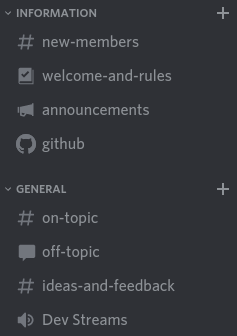
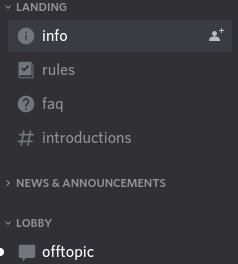
Add "info" and "faq"

diff --git a/src/index.js b/src/index.js
@@ -7,10 +7,14 @@ import * as settingsPage from "@goosemod/settings";
 let settings = {
   github: true,
   offTopic: true,
+  info: true,
+  faq: true,
 };
 
 let styleGithub;
 let styleOffTopic;
+let styleInfo;
+let styleFaq;
 
 function updateSetting(setting, value = settings[setting]) {
   try {
@@ -24,7 +28,7 @@ function updateSetting(setting, value = settings[setting]) {
 
         if (value) {
           styleGithub = document.createElement("style");
-          styleGithub.textContent = `[aria-label="github (text channel)"] > div > svg > path, [aria-label="github (announcement channel)"] > div > svg > path, [aria-label="unread, github (text channel)"] > div > svg > path, [aria-label="unread, github (announcement channel)"] > div > svg > path { d: path("M8 0C3.58 0 0 3.58 0 8C0 11.54 2.29 14.53 5.47 15.59C5.87 15.66 6.02 15.42 6.02 15.21C6.02 15.02 6.01 14.39 6.01 13.72C4 14.09 3.48 13.23 3.32 12.78C3.23 12.55 2.84 11.84 2.5 11.65C2.22 11.5 1.82 11.13 2.49 11.12C3.12 11.11 3.57 11.7 3.72 11.94C4.44 13.15 5.59 12.81 6.05 12.6C6.12 12.08 6.33 11.73 6.56 11.53C4.78 11.33 2.92 10.64 2.92 7.58C2.92 6.71 3.23 5.99 3.74 5.43C3.66 5.23 3.38 4.41 3.82 3.31C3.82 3.31 4.49 3.1 6.02 4.13C6.66 3.95 7.34 3.86 8.02 3.86C8.7 3.86 9.38 3.95 10.02 4.13C11.55 3.09 12.22 3.31 12.22 3.31C12.66 4.41 12.38 5.23 12.3 5.43C12.81 5.99 13.12 6.7 13.12 7.58C13.12 10.65 11.25 11.33 9.47 11.53C9.76 11.78 10.01 12.26 10.01 13.01C10.01 14.08 10 14.94 10 15.21C10 15.42 10.15 15.67 10.55 15.59C13.71 14.53 16 11.53 16 8C16 3.58 12.42 0 8 0Z"); transform: scale(1.5);}`;
+          styleGithub.textContent = `[aria-label="github (text channel)"] > div > svg > path, [aria-label="github (announcement channel)"] > div > svg > path, [aria-label="unread, github (text channel)"] > div > svg > path, [aria-label="unread, github (announcement channel)"] > div > svg > path { d: path("M8 0C3.58 0 0 3.58 0 8C0 11.54 2.29 14.53 5.47 15.59C5.87 15.66 6.02 15.42 6.02 15.21C6.02 15.02 6.01 14.39 6.01 13.72C4 14.09 3.48 13.23 3.32 12.78C3.23 12.55 2.84 11.84 2.5 11.65C2.22 11.5 1.82 11.13 2.49 11.12C3.12 11.11 3.57 11.7 3.72 11.94C4.44 13.15 5.59 12.81 6.05 12.6C6.12 12.08 6.33 11.73 6.56 11.53C4.78 11.33 2.92 10.64 2.92 7.58C2.92 6.71 3.23 5.99 3.74 5.43C3.66 5.23 3.38 4.41 3.82 3.31C3.82 3.31 4.49 3.1 6.02 4.13C6.66 3.95 7.34 3.86 8.02 3.86C8.7 3.86 9.38 3.95 10.02 4.13C11.55 3.09 12.22 3.31 12.22 3.31C12.66 4.41 12.38 5.23 12.3 5.43C12.81 5.99 13.12 6.7 13.12 7.58C13.12 10.65 11.25 11.33 9.47 11.53C9.76 11.78 10.01 12.26 10.01 13.01C10.01 14.08 10 14.94 10 15.21C10 15.42 10.15 15.67 10.55 15.59C13.71 14.53 16 11.53 16 8C16 3.58 12.42 0 8 0Z"); transform: scale(1.5); }`;
           document.head.appendChild(styleGithub);
         }
         break;
@@ -35,8 +39,30 @@ function updateSetting(setting, value = settings[setting]) {
 
         if (value) {
           styleOffTopic = document.createElement("style");
-          styleOffTopic.textContent = `[aria-label="offtopic (text channel)"] > div > svg > path, [aria-label="off-topic (text channel)"] > div > svg > path, [aria-label="unread, offtopic (text channel)"] > div > svg > path, [aria-label="unread, off-topic (text channel)"] > div > svg > path { d: path("M4.79805 3C3.80445 3 2.99805 3.8055 2.99805 4.8V15.6C2.99805 16.5936 3.80445 17.4 4.79805 17.4H7.49805V21L11.098 17.4H19.198C20.1925 17.4 20.998 16.5936 20.998 15.6V4.8C20.998 3.8055 20.1925 3 19.198 3H4.79805Z");transform: scale(1.1);}`;
+          styleOffTopic.textContent = `[aria-label="offtopic (text channel)"] > div > svg > path, [aria-label="off-topic (text channel)"] > div > svg > path, [aria-label="unread, offtopic (text channel)"] > div > svg > path, [aria-label="unread, off-topic (text channel)"] > div > svg > path { d: path("M4.79805 3C3.80445 3 2.99805 3.8055 2.99805 4.8V15.6C2.99805 16.5936 3.80445 17.4 4.79805 17.4H7.49805V21L11.098 17.4H19.198C20.1925 17.4 20.998 16.5936 20.998 15.6V4.8C20.998 3.8055 20.1925 3 19.198 3H4.79805Z");transform: scale(1.1); }`;
           document.head.appendChild(styleOffTopic);
+        }
+        break;
+      case "info":
+        try {
+          styleInfo.remove();
+        } catch {}
+
+        if (value) {
+          styleInfo = document.createElement("style");
+          styleInfo.textContent = `[aria-label="info (text channel)"] > div > svg > path, [aria-label="unread, info (text channel)"] > div > svg > path, [aria-label="useful (text channel)"] > div > svg > path, [aria-label="unread, useful (text channel)"] > div > svg > path { d: path("M0 0h24v24H0z");d: path("M12 2C6.48 2 2 6.48 2 12s4.48 10 10 10 10-4.48 10-10S17.52 2 12 2zm1 15h-2v-6h2v6zm0-8h-2V7h2v2z"); }`;
+          document.head.appendChild(styleInfo);
+        }
+        break;
+      case "faq":
+        try {
+          styleFaq.remove();
+        } catch {}
+
+        if (value) {
+          styleFaq = document.createElement("style");
+          styleFaq.textContent = `[aria-label="faq (text channel)"] > div > svg > path, [aria-label="unread, faq (text channel)"] > div > svg > path { d: path("M0 0h24v24H0z");d: path("M12 2C6.48 2 2 6.48 2 12s4.48 10 10 10 10-4.48 10-10S17.52 2 12 2zm1 17h-2v-2h2v2zm2.07-7.75l-.9.92C13.45 12.9 13 13.5 13 15h-2v-.5c0-1.1.45-2.1 1.17-2.83l1.24-1.26c.37-.36.59-.86.59-1.41 0-1.1-.9-2-2-2s-2 .9-2 2H8c0-2.21 1.79-4 4-4s4 1.79 4 4c0 .88-.36 1.68-.93 2.25z"); }`;
+          document.head.appendChild(styleFaq);
         }
         break;
 
@@ -82,6 +108,18 @@ export default {
           text: "Off-Topic Channels",
           onToggle: (value) => updateSetting("offTopic", value),
           isToggled: () => settings.offTopic,
+        },
+        {
+          type: "toggle",
+          text: "Info Channels",
+          onToggle: (value) => updateSetting("info", value),
+          isToggled: () => settings.info,
+        },
+        {
+          type: "toggle",
+          text: "FAQ Channels",
+          onToggle: (value) => updateSetting("faq", value),
+          isToggled: () => settings.faq,
         },
       ]);
     },
